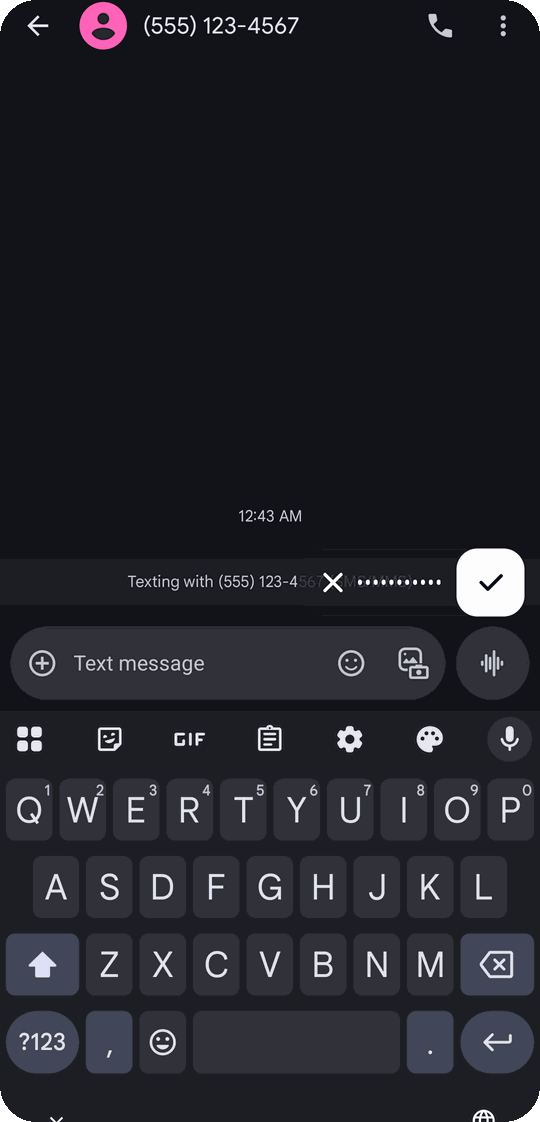
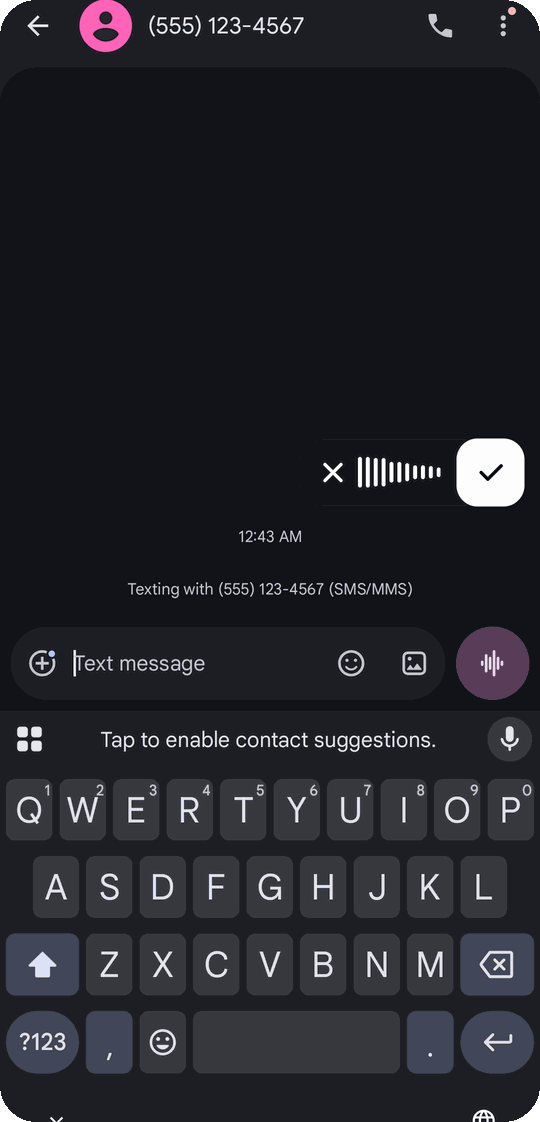
docs: showcase tap and hold dictation with live audio levels
Move the floating button above the conversation footer so it stands
clear of other UI, and capture the ready, tap-to-dictate, and
hold-to-talk states with audio fed into the emulator microphone so the
level meter shows real input.

diff --git a/README.md b/README.md
@@ -10,21 +10,25 @@ other settings from the app.
 
 ## Floating button
 
-Focus any text field and the floating button appears over the app. Tap to
-start dictating, then tap ✓ to transcribe and insert the text, or ✕ to
-discard it.
-It follows the keyboard, snaps to the screen edge, and can be dragged,
-faded, locked, or snoozed.
+Focus any text field and the floating button appears over the app. A quick
+tap starts dictation; tap ✓ to transcribe and insert the text, or ✕ to
+discard it. Or press and hold to talk, release to send, slide up to lock
+recording, or slide down to cancel. It follows the keyboard, snaps to the
+screen edge, and can be dragged, faded, locked, or snoozed.
 
 <table>
   <tr>
-    <td align="center" width="50%">
-      <img src="docs/screenshots/pill-ready.png" alt="Floating button resting above the keyboard in Messages" width="270" /><br />
-      <sub><b>Ready</b> — rests just above the keyboard</sub>
+    <td align="center" width="33%">
+      <img src="docs/screenshots/pill-ready.png" alt="Floating button resting above the keyboard in Messages" width="220" /><br />
+      <sub><b>Ready</b><br />rests above the keyboard</sub>
     </td>
-    <td align="center" width="50%">
-      <img src="docs/screenshots/pill-recording.png" alt="Floating button expanded while listening, with confirm and cancel controls" width="270" /><br />
-      <sub><b>Listening</b> — tap once to start; ✓ inserts, ✕ cancels</sub>
+    <td align="center" width="33%">
+      <img src="docs/screenshots/pill-recording.png" alt="Floating button after a tap, listening with live audio levels and confirm and cancel controls" width="220" /><br />
+      <sub><b>Tap to dictate</b><br />✓ inserts · ✕ cancels</sub>
+    </td>
+    <td align="center" width="33%">
+      <img src="docs/screenshots/pill-hold.png" alt="Floating button held down, listening with live audio levels, a lock target above and a cancel target below" width="220" /><br />
+      <sub><b>Hold to talk</b><br />release sends · ↑ lock · ↓ cancel</sub>
     </td>
   </tr>
 </table>
